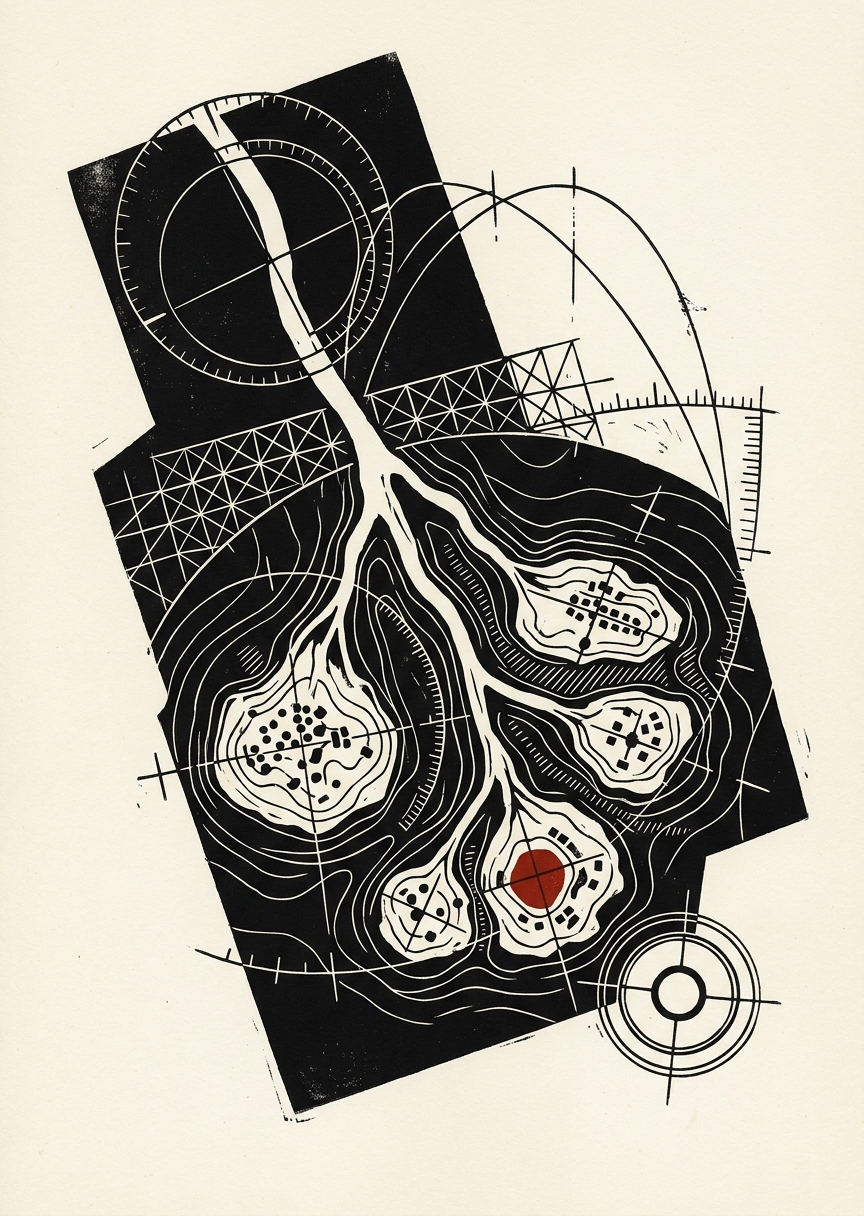
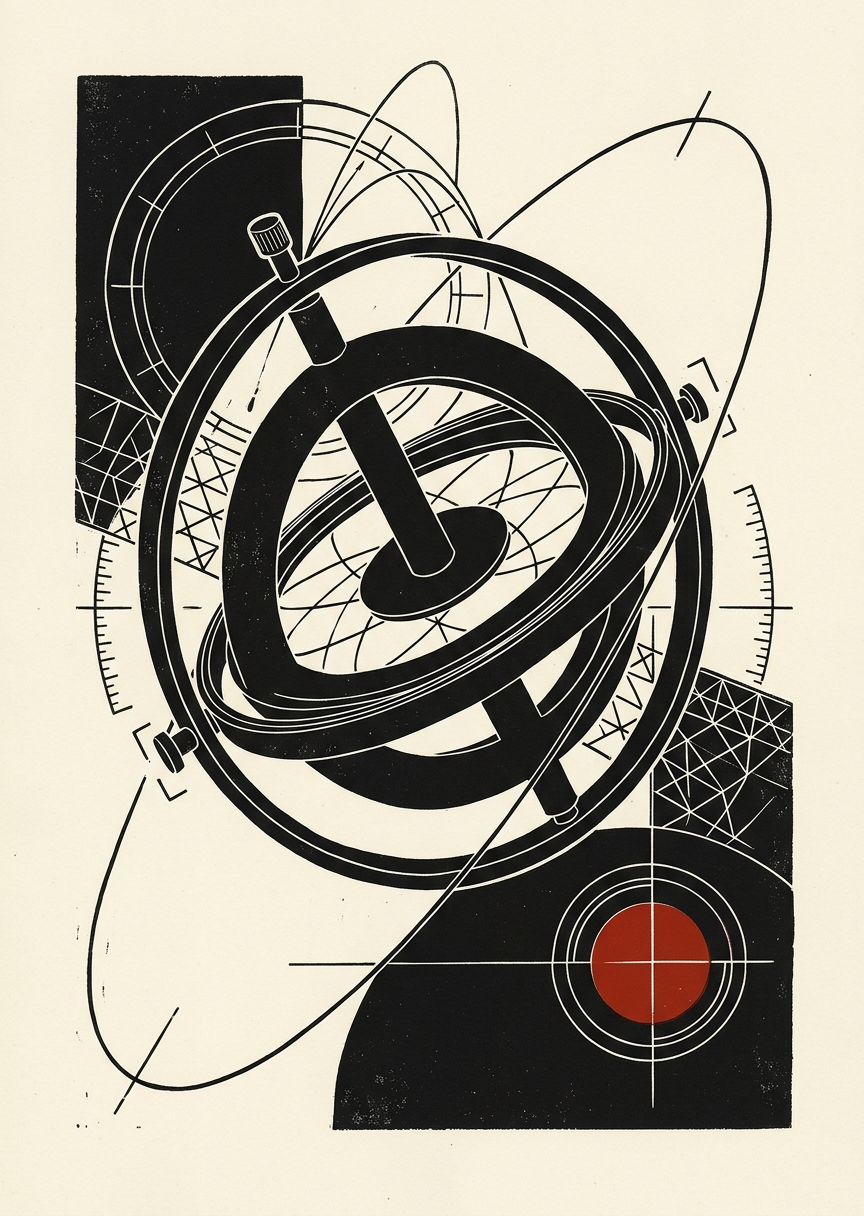
Introduce playing-card visual system for project cards and detail pages
Switch to 5:7 aspect ratio cards with corner index marks, paper texture
overlays, and external link chips below captions. Add cover art display to
the project detail page header. Update cover art prompts and assets.

diff --git a/src/components/ProjectCard.vue b/src/components/ProjectCard.vue
@@ -1,6 +1,8 @@
 <script setup lang="ts">
 import { computed } from 'vue'
 
+interface ExternalLink { label: string; href: string }
+
 interface Props {
   idx: string
   category?: string
@@ -8,15 +10,13 @@ interface Props {
   blurb: string
   status: 'active' | 'archive'
   href: string
-  external?: boolean
   image?: string
   year?: number
+  links?: ExternalLink[]
 }
 
 const props = defineProps<Props>()
 
-const target = computed(() => props.external ? '_blank' : '_self')
-const rel = computed(() => props.external ? 'noreferrer noopener' : undefined)
 const initial = computed(() =>
   props.name.replace(/<[^>]*>/g, '').charAt(0).toUpperCase()
 )
@@ -31,8 +31,6 @@ const initial = computed(() =>
   >
     <a
       :href="href"
-      :target="target"
-      :rel="rel"
       class="project-card"
     >
       <!-- Playing card corner indices -->
@@ -55,8 +53,22 @@ const initial = computed(() =>
     </a>
 
     <div class="card-caption">
-      <span class="card-name" v-html="name" />
+      <div class="card-name-row">
+        <span v-if="status === 'active'" class="status-dot" aria-label="Active" />
+        <span class="card-name" v-html="name" />
+      </div>
       <p class="card-blurb">{{ blurb }}</p>
+    </div>
+    <div v-if="links?.length" class="card-chips">
+      <a
+        v-for="link in links"
+        :key="link.href"
+        :href="link.href"
+        target="_blank"
+        rel="noreferrer noopener"
+        class="chip"
+        @click.stop
+      >{{ link.label }}</a>
     </div>
   </div>
 </template>
@@ -69,10 +81,6 @@ const initial = computed(() =>
   scroll-snap-align: start;
 }
 
-.card-wrapper.is-archive .project-card {
-  opacity: 0.70;
-}
-
 @media (hover: hover) and (pointer: fine) {
   .card-wrapper:hover .project-card {
     transform: translateY(-5px) scale(1.025);
@@ -83,15 +91,12 @@ const initial = computed(() =>
       0 16px 40px rgba(0,0,0,0.10),
       0 1px 3px rgba(0,0,0,0.12);
   }
-  .card-wrapper.is-archive:hover .project-card {
-    opacity: 1;
-  }
 }
 
 /* ── Card shell ──────────────────────────────── */
 .project-card {
   width: 100%;
-  aspect-ratio: 5 / 4;
+  aspect-ratio: 5 / 7;
   position: relative;
   display: block;
   border: 1px solid var(--line-soft);
@@ -206,6 +211,21 @@ const initial = computed(() =>
   gap: 4px;
 }
 
+.card-name-row {
+  display: flex;
+  align-items: flex-start;
+  gap: 6px;
+}
+
+.status-dot {
+  flex-shrink: 0;
+  width: 6px;
+  height: 6px;
+  border-radius: 50%;
+  background: var(--coral);
+  margin-top: 5px;
+}
+
 .card-name {
   font-family: var(--serif);
   font-size: 15px;
@@ -236,6 +256,35 @@ const initial = computed(() =>
   -webkit-box-orient: vertical;
   overflow: hidden;
   text-wrap: pretty;
+}
+
+/* ── External link chips ──────────────────────── */
+.card-chips {
+  display: flex;
+  flex-wrap: wrap;
+  gap: 6px;
+  padding-top: 8px;
+}
+
+.chip {
+  font-family: var(--caps);
+  font-size: 10px;
+  font-weight: 600;
+  letter-spacing: 0.14em;
+  text-transform: uppercase;
+  color: var(--ink-mute);
+  border: 1px solid var(--line-soft);
+  border-radius: 2px;
+  padding: 3px 8px;
+  text-decoration: none;
+  transition: color var(--dur-base), border-color var(--dur-base);
+}
+
+@media (hover: hover) and (pointer: fine) {
+  .chip:hover {
+    color: var(--ink);
+    border-color: var(--line);
+  }
 }
 
 @media (max-width: 640px) {

diff --git a/src/content/projects/untie-animation.md b/src/content/projects/untie-animation.md
@@ -5,7 +5,7 @@ status: archive
 order: 14
 repo: https://github.com/BrennonTWilliams/untie-ai
 summary: A Unity animation framework that decouples AI decisions from animation logic. The agent emits named actions; physics-aware blending, predictive transitions, and editor-driven configuration handle everything that follows.
-svg: untie-animation.svg
+cover: untie-animation.jpg
 ---
 
 ## Overview
